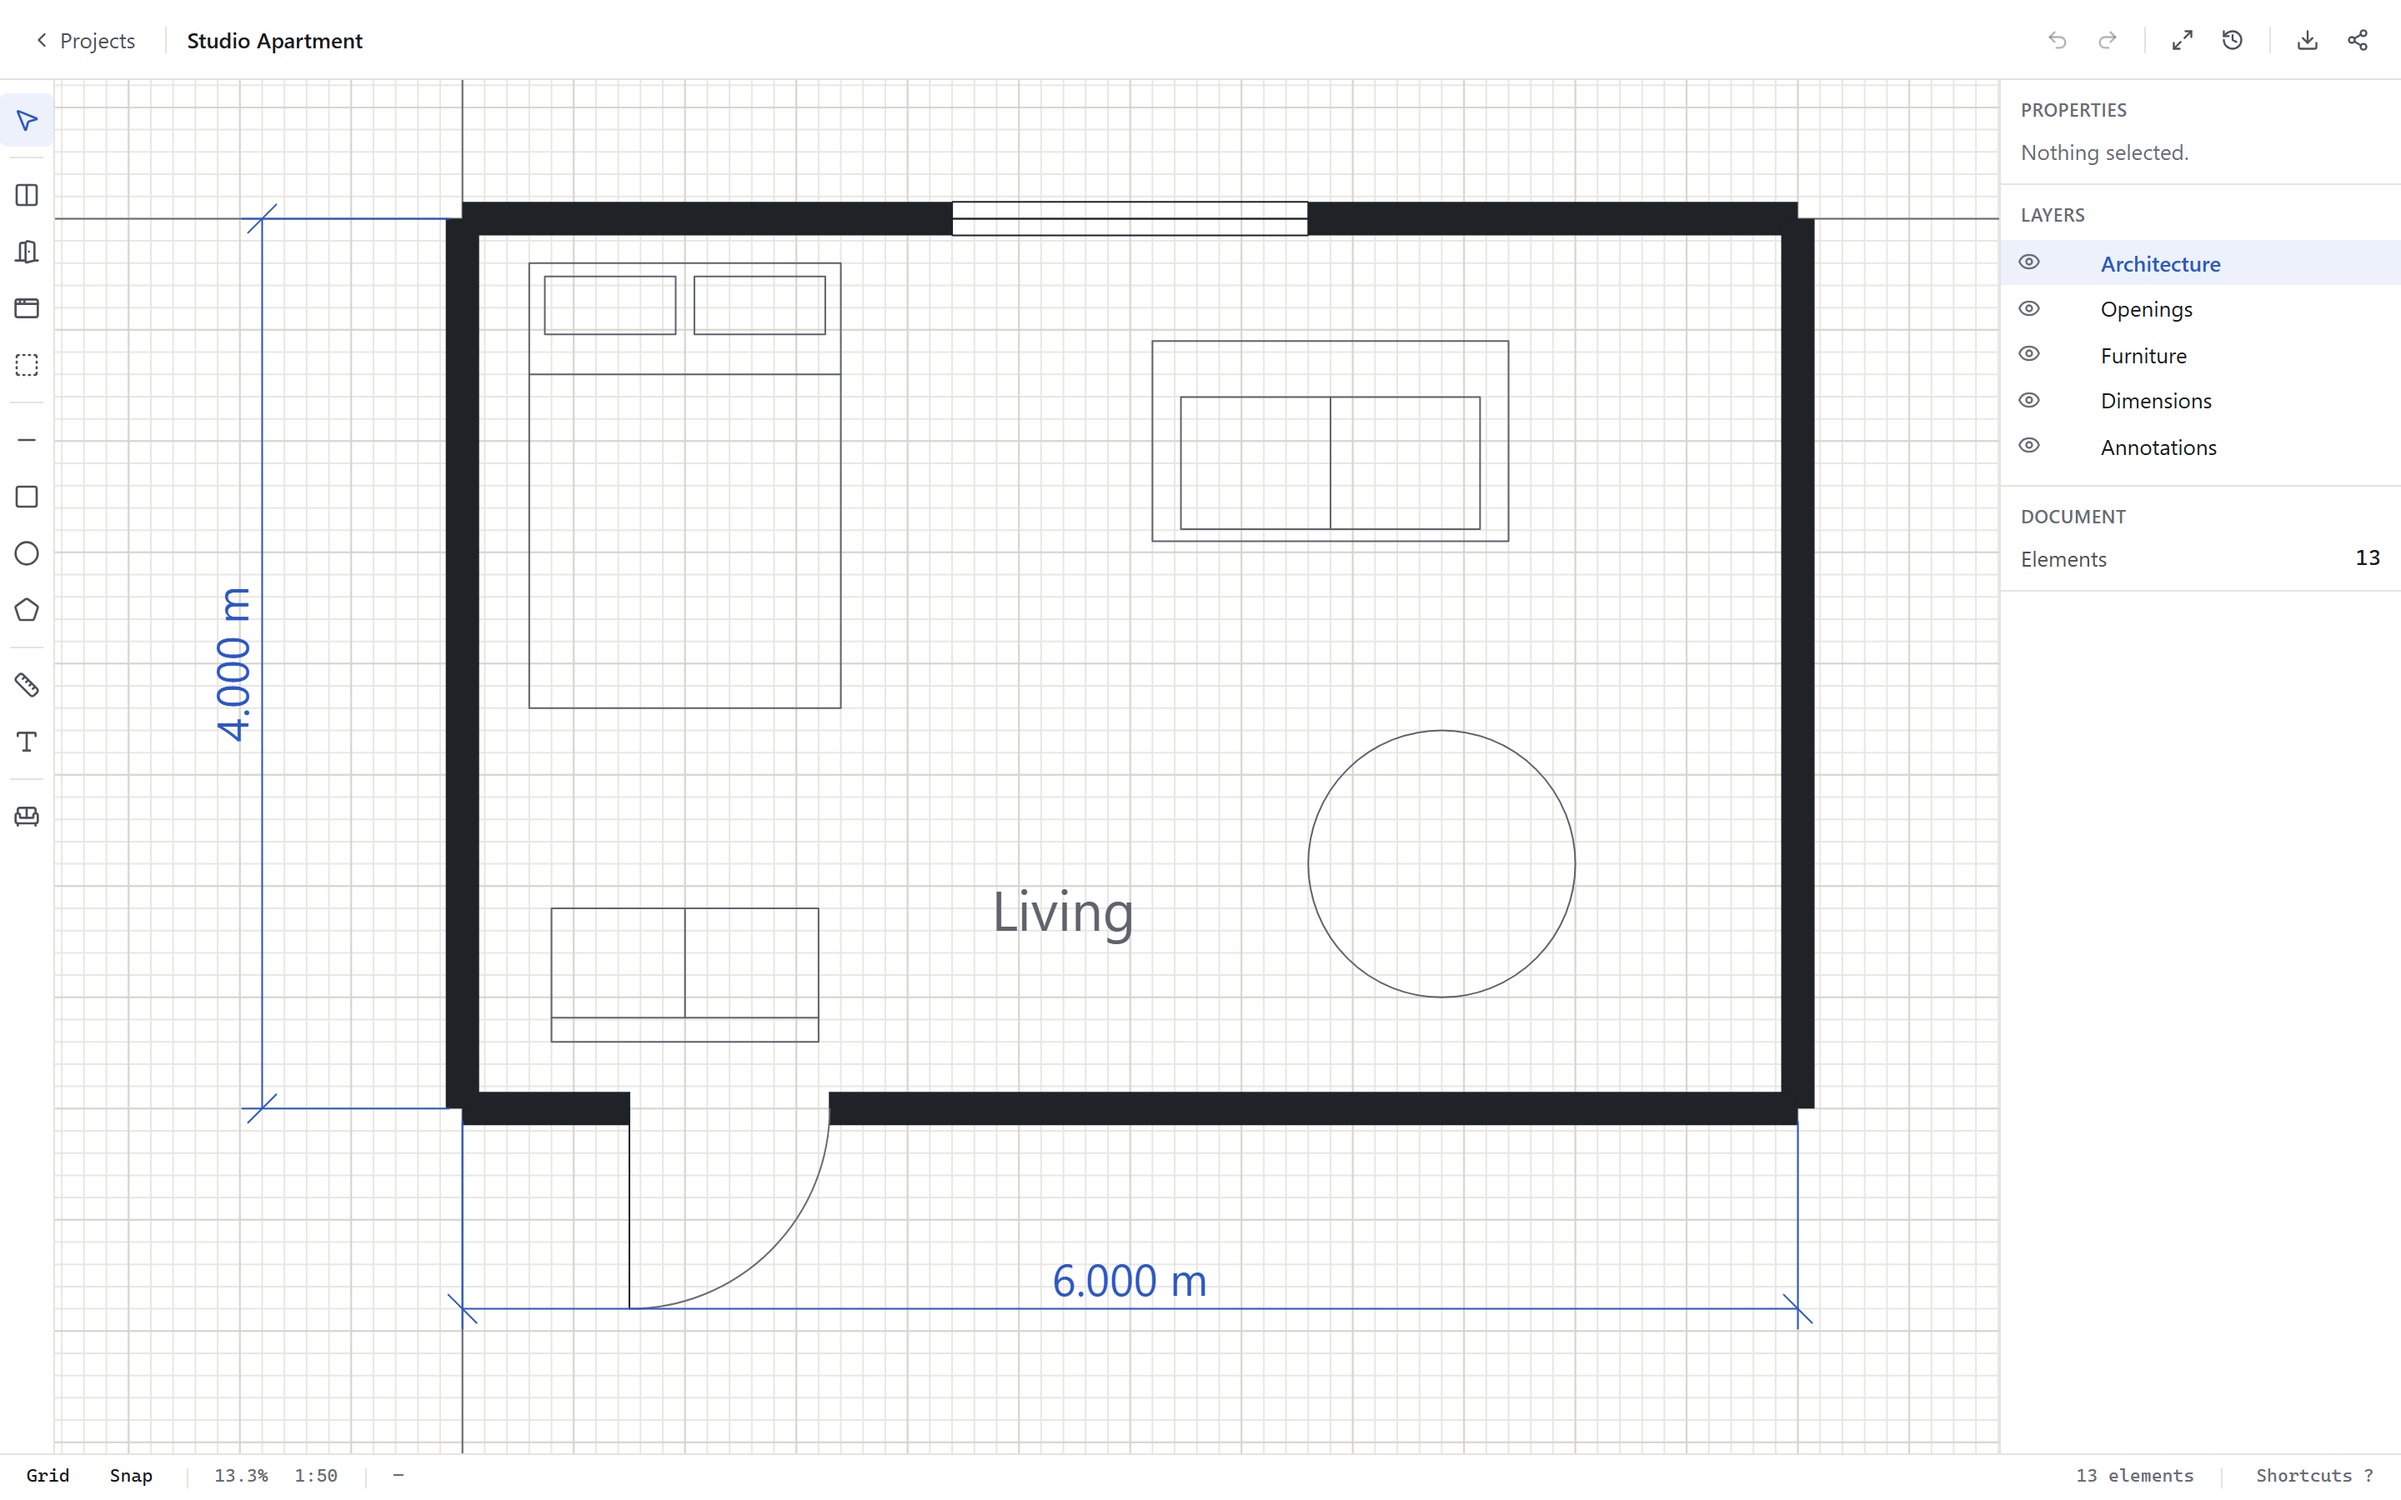
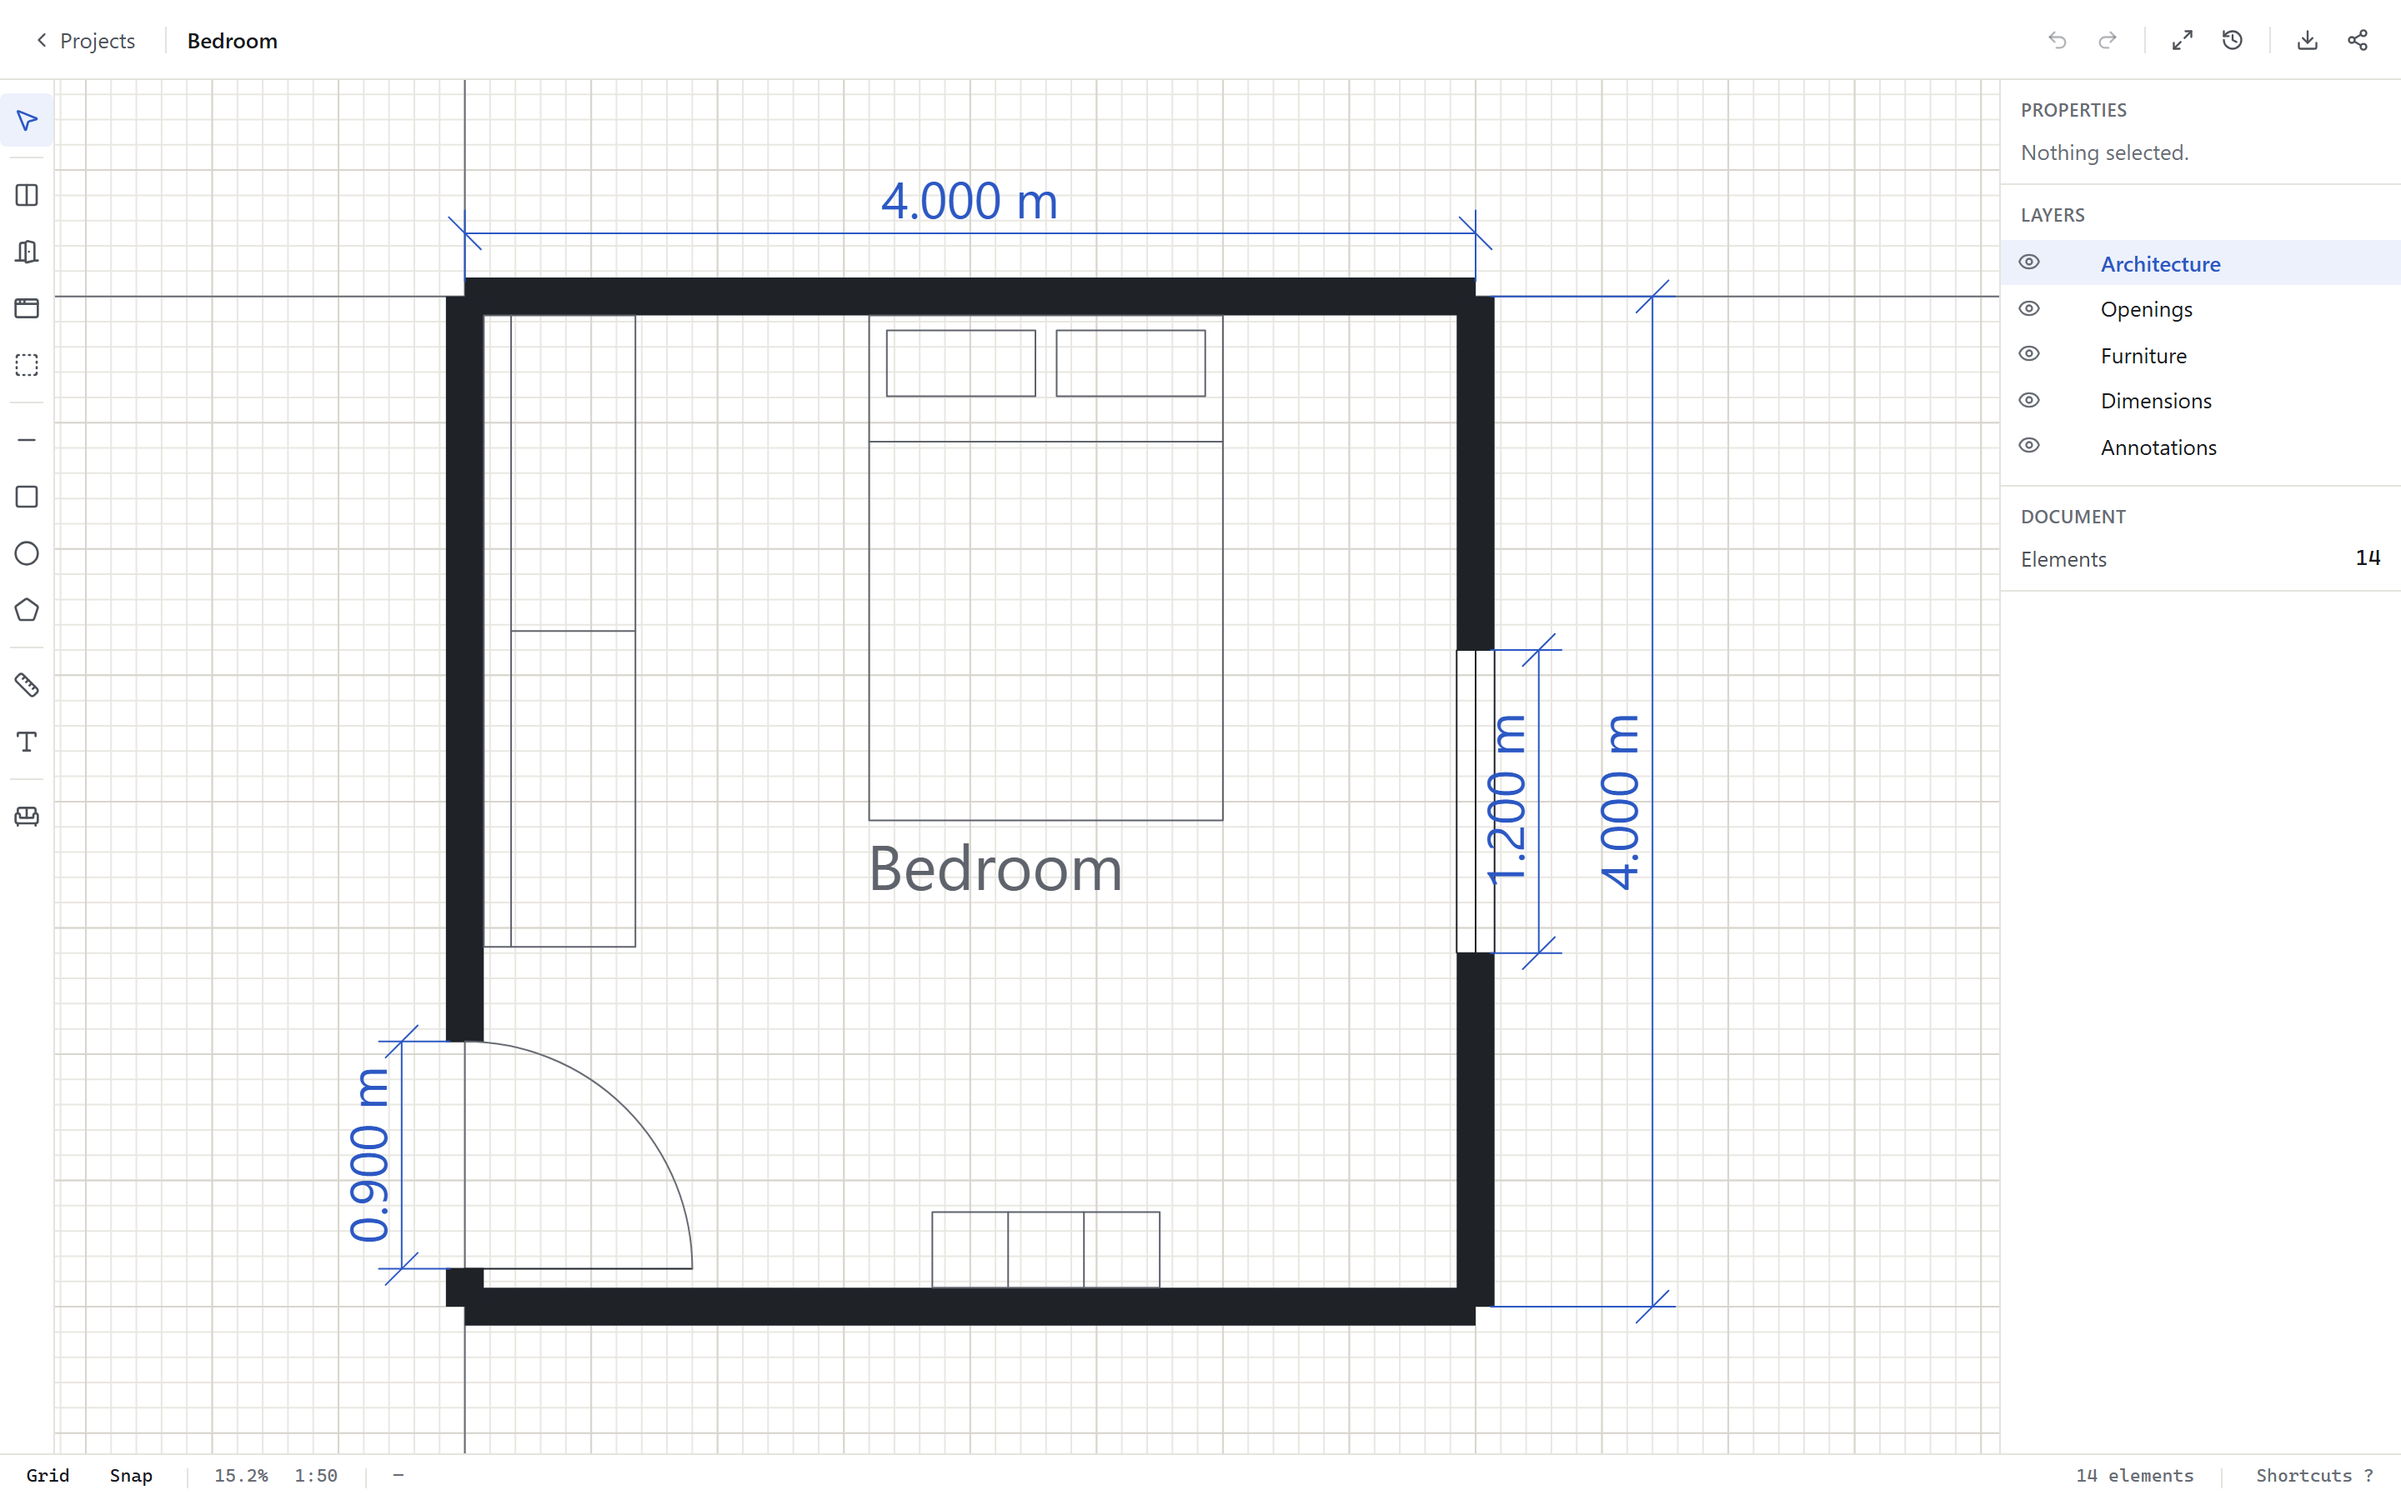
feat: the sample plan is a bedroom, drawn to set out properly
The plan on the landing page is exported from the seeded sample, so what the
sample is decides what the page shows — and the studio it was showing did not
look like a drawing anyone would set out. Replaced with the room it should have
been: four by four metres, a wardrobe down one wall, a double bed against
another, a bookshelf, a window, and a door that swings into the room.

Dimensioned the way a drawing is: overall each way, plus the window and the door
measured against the walls they are cut into, in two ranks — the openings close
in at 250 and the overalls carried out at 700 — so no two lines cross.

The blocks now stand against the inside face of the wall behind them rather than
near it, which needed nothing new: an asset already stores its own size and can
be turned, so the wardrobe is the library block at two and a half metres, on its
side.

The project is called Bedroom now, and the README's screenshots follow it,
because everything with a picture of the plan in it comes from the same seed.

Changed region(s): [[0.0312, 0.0622, 0.8438, 0.9644], [0.0938, 0.0, 0.1562, 0.0311]]

diff --git a/resources/js/pages/landing/PlanDrawing.tsx b/resources/js/pages/landing/PlanDrawing.tsx
@@ -14,7 +14,7 @@ export function PlanDrawing({ className }: { className?: string }) {
         <img
             src={planUrl}
             className={className}
-            alt="A floor plan of a six by four metre studio apartment: walls drawn with real thickness, a door with its swing and a window cut into the walls that host them, a bed, a sofa, a round table and a wardrobe, and the overall width and depth dimensioned at 6.000 m and 4.000 m."
+            alt="A floor plan of a four by four metre bedroom: walls drawn with real thickness, a wardrobe down one wall, a double bed against another, a bookshelf, a window and a door that swings into the room — the room dimensioned 4.000 m each way, the window at 1.200 m and the door at 0.900 m."
         />
     );
 }

diff --git a/database/seeders/DemoPlan.php b/database/seeders/DemoPlan.php
@@ -9,7 +9,11 @@ use Illuminate\Support\Str;
 
 /**
  * A small but real drawing, so that a fresh install has something to open rather than an
- * empty sheet: a 6.00 × 4.00 m room with a door and a window.
+ * empty sheet — and so that the landing page has something honest to show, since the drawing
+ * there is this plan put through the editor's own SVG exporter.
+ *
+ * A 4.00 × 4.00 m bedroom: a wardrobe down one wall, a bed against another, a window, a door
+ * that swings into the room, and the four dimensions a set-out drawing would carry.
  *
  * Everything is in millimetres, per docs/document-format.md. Wall centrelines run corner to
  * corner; the poché is drawn from the thickness.
@@ -18,44 +22,71 @@ final class DemoPlan
 {
     private const THICKNESS = 150;
 
-    private const WIDTH = 6000;
+    private const WIDTH = 4000;
 
     private const DEPTH = 4000;
+
+    /** Where the inside face of a wall sits, which is what furniture stands against. */
+    private const FACE = self::THICKNESS / 2;
 
     /** @return array<string, mixed> */
     public static function document(string $name): array
     {
         $document = DocumentSchema::blank($name);
 
-        $south = self::wall(0, self::DEPTH, self::WIDTH, self::DEPTH);
+        // Walls run clockwise from the north-west corner, so that "along the wall" means the
+        // same thing for every opening measured on one.
         $north = self::wall(0, 0, self::WIDTH, 0);
+        $east = self::wall(self::WIDTH, 0, self::WIDTH, self::DEPTH);
+        $south = self::wall(0, self::DEPTH, self::WIDTH, self::DEPTH);
+        $west = self::wall(0, self::DEPTH, 0, 0);
+
+        // Both openings, as distances along the wall they cut, from that wall's first corner.
+        $windowOffset = 2000;
+        $windowWidth = 1200;
+        $doorOffset = 600;
+        $doorWidth = 900;
 
         $document['elements'] = [
             $north,
-            self::wall(self::WIDTH, 0, self::WIDTH, self::DEPTH),
+            $east,
             $south,
-            self::wall(0, self::DEPTH, 0, 0),
+            $west,
 
-            // A 900 mm door 1.20 m along the south wall, and a 1.60 m window centred north.
-            self::opening('door', $south['id'], offset: 1200, width: 900),
-            self::opening('window', $north['id'], offset: self::WIDTH / 2, width: 1600),
+            self::opening('window', $east['id'], offset: $windowOffset, width: $windowWidth),
+            self::opening('door', $west['id'], offset: $doorOffset, width: $doorWidth),
 
-            // Placed in the one part of the floor the furniture leaves clear, the way a label
-            // is set out on a real plan rather than dropped in the middle of the sofa.
-            // Overall width below the plan and overall depth down its left-hand side, which
-            // is where a set-out drawing carries them. The offsets are signed: negative puts
-            // the depth's line outside the west wall rather than inside the room.
-            self::dimension(0, self::DEPTH, self::WIDTH, self::DEPTH, offset: 900),
-            self::dimension(0, self::DEPTH, 0, 0, offset: -900),
+            /*
+             * The set-out: overall width above the plan and overall depth beside it, then the
+             * two openings dimensioned against the walls they are cut into. The offsets are
+             * signed, which is how each line is put on the outside of its wall rather than in
+             * the middle of the room — and they come in two ranks, the openings close in at
+             * 250 and an overall carried further out at 700, so the lines never cross.
+             */
+            self::dimension(0, 0, self::WIDTH, 0, offset: -250),
+            self::dimension(self::WIDTH, self::DEPTH, self::WIDTH, 0, offset: 700),
+            self::dimension(
+                self::WIDTH,
+                $windowOffset + $windowWidth / 2,
+                self::WIDTH,
+                $windowOffset - $windowWidth / 2,
+                offset: 250,
+            ),
+            self::dimension(
+                0,
+                self::DEPTH - $doorOffset + $doorWidth / 2,
+                0,
+                self::DEPTH - $doorOffset - $doorWidth / 2,
+                offset: -250,
+            ),
 
-            self::roomLabel('Living', 2700, 3200),
+            self::roomLabel('Bedroom', 2100, 2350),
 
-            // A few blocks from the library, so a fresh install opens on a furnished plan
-            // rather than an empty shell.
-            self::block('bed-double', 1400, 2000, 1000, 1200),
-            self::block('sofa-2', 1600, 900, 3900, 1000),
-            self::block('table-round', 1200, 1200, 4400, 2900),
-            self::block('wardrobe', 1200, 600, 1000, 3400),
+            // Blocks from the library, each standing against the face of the wall behind it
+            // rather than floating near it.
+            self::block('bed-double', 1400, 2000, 2300, self::FACE + 1000),
+            self::block('wardrobe', 2500, 600, self::FACE + 300, self::FACE + 1250, rotation: M_PI / 2),
+            self::block('bookshelf', 900, 300, 2300, self::DEPTH - self::FACE - 150),
         ];
 
         return $document;
@@ -99,14 +130,15 @@ final class DemoPlan
         string $assetId,
         int $width,
         int $height,
-        int $x,
-        int $y,
+        int|float $x,
+        int|float $y,
+        float $rotation = 0.0,
     ): array {
         return self::element(
             'asset',
             DocumentSchema::LAYER_FURNITURE,
             ['assetId' => $assetId, 'width' => $width, 'height' => $height, 'mirrored' => false],
-            ['x' => $x, 'y' => $y, 'rotation' => 0],
+            ['x' => $x, 'y' => $y, 'rotation' => $rotation],
         );
     }
 
@@ -117,10 +149,15 @@ final class DemoPlan
      *
      * @return array<string, mixed>
      */
-    private static function dimension(int $ax, int $ay, int $bx, int $by, int $offset): array
-    {
-        $centreX = intdiv($ax + $bx, 2);
-        $centreY = intdiv($ay + $by, 2);
+    private static function dimension(
+        int|float $ax,
+        int|float $ay,
+        int|float $bx,
+        int|float $by,
+        int $offset,
+    ): array {
+        $centreX = ($ax + $bx) / 2;
+        $centreY = ($ay + $by) / 2;
 
         return self::element(
             'dimension',

diff --git a/database/seeders/DatabaseSeeder.php b/database/seeders/DatabaseSeeder.php
@@ -40,18 +40,18 @@ final class DatabaseSeeder extends Seeder
         $renovation->timestamps = false;
         $renovation->update(['created_at' => now()->subDay(), 'updated_at' => now()->subDay()]);
 
-        $studio = $createProject->handle(
+        $bedroom = $createProject->handle(
             owner: $demo,
-            name: 'Studio Apartment',
+            name: 'Bedroom',
             description: 'A sample plan to open, edit and export.',
         );
 
-        $document = $studio->document;
+        $document = $bedroom->document;
 
         if ($document !== null) {
             $document->update([
                 'schema_version' => DocumentSchema::CURRENT_VERSION,
-                'data' => DemoPlan::document($studio->name),
+                'data' => DemoPlan::document($bedroom->name),
             ]);
         }
     }

diff --git a/README.md b/README.md
@@ -25,7 +25,7 @@ drawing an accurate 2D plan — done properly.
 
 ## Screenshots
 
-![The editor with the sample plan open: the tool rail, the sheet showing wall poché, a door swing and furniture blocks, and the properties and layers panels](docs/images/editor.png)
+![The editor with the sample plan open: the tool rail, the sheet showing wall poché, a door swing, furniture blocks and dimensions, and the properties and layers panels](docs/images/editor.png)
 
 <p align="center"><em>The editor. Walls carry thickness; the door and window cut real
 openings in the wall that hosts them.</em></p>
